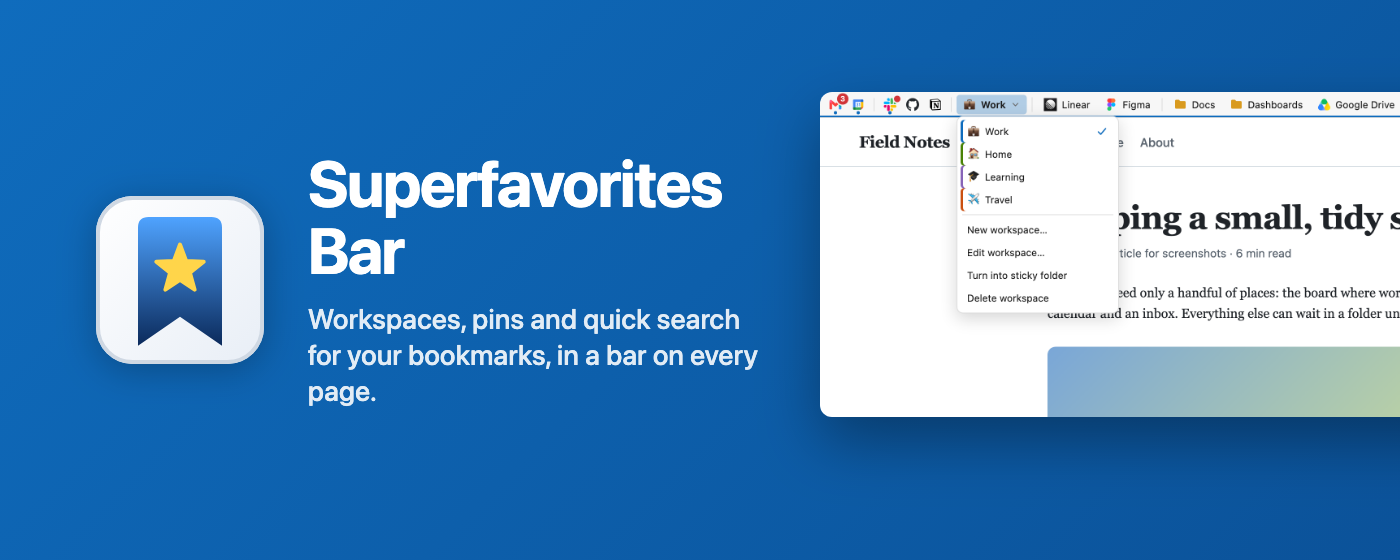
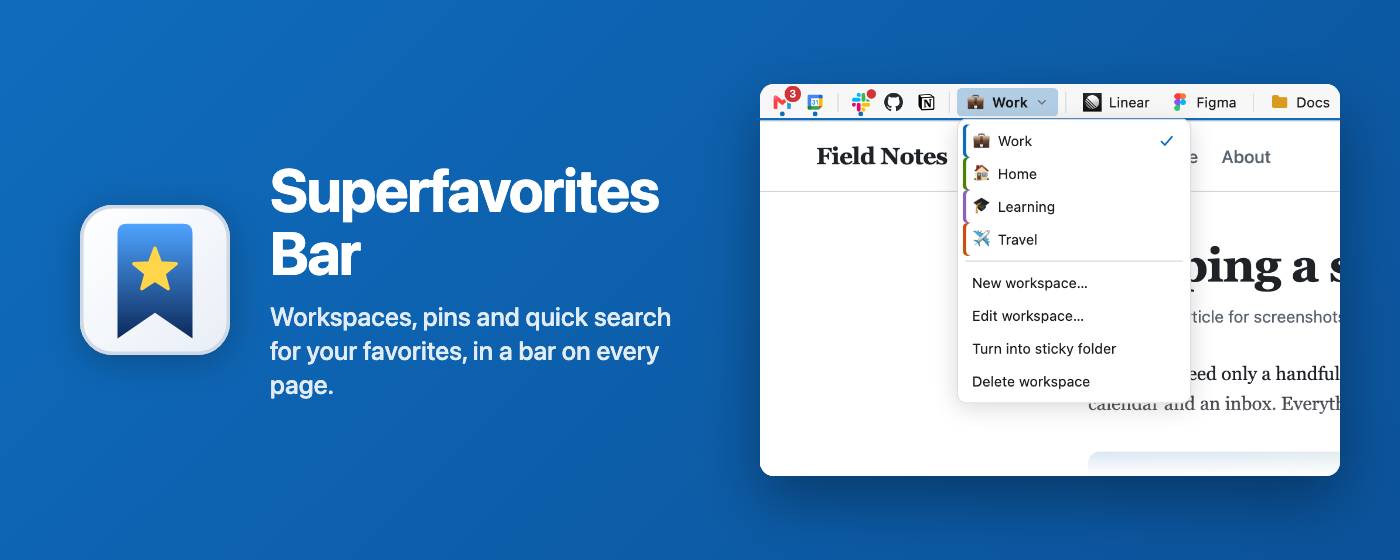
Polish Edge store listing text and promo tiles
Expand the store description, single purpose and bookmarks permission
justification, say "favorites" on the promo tiles and keep the large
tile's screenshot inside the frame.

Changed region(s): [[0.0307, 0.1518, 1.0, 0.9107]]

diff --git a/docs/store/src/promo.html b/docs/store/src/promo.html
@@ -14,12 +14,16 @@
   .small .icon { width: 104px; height: 104px; }
   .small h1 { font-size: 36px; }
   .small p { font-size: 17px; margin-top: 10px; }
-  .large { width: 1400px; height: 560px; padding-left: 96px; gap: 44px; }
-  .large .icon { width: 168px; height: 168px; }
-  .large h1 { font-size: 64px; }
-  .large p { font-size: 28px; margin-top: 16px; max-width: 470px; }
-  .large .shot { position: absolute; left: 820px; top: 92px; width: 1040px; border-radius: 12px;
-                 box-shadow: 0 24px 60px rgba(0,0,0,.35); }
+  .large { width: 1400px; height: 560px; padding-left: 80px; gap: 40px; }
+  .large .icon { width: 150px; height: 150px; }
+  .large h1 { font-size: 60px; }
+  .large p { font-size: 26px; margin-top: 16px; max-width: 420px; }
+  /* A window-sized crop of the bar and its workspace menu, kept inside the tile. */
+  .large .frame { position: absolute; right: 60px; top: 84px; width: 580px; height: 392px; overflow: hidden;
+                  border-radius: 14px; background: #fff; box-shadow: 0 24px 60px rgba(0,0,0,.35); }
+  .large .shot { display: block; width: 1500px; }
+  .large .frame::after { content: ''; position: absolute; inset: auto 0 0 0; height: 90px;
+                         background: linear-gradient(transparent, #fff); }
   .logo { width: 300px; height: 300px; justify-content: center; background: #fff; }
   .logo .icon { width: 236px; height: 236px; filter: none; }
 </style></head><body>
@@ -28,10 +32,10 @@
   fetch('../../../icons/src/icon.svg').then((r) => r.text()).then((svg) => {
     const icon = `<div class="icon">${svg.replace('<svg ', '<svg width="100%" height="100%" ')}</div>`;
     const text = `<div><h1>Superfavorites<br>Bar</h1><p>${size === 'large'
-      ? 'Workspaces, pins and quick search for your bookmarks, in a bar on every page.'
-      : 'Workspaces for your bookmarks'}</p></div>`;
+      ? 'Workspaces, pins and quick search for your favorites, in a bar on every page.'
+      : 'Workspaces for your favorites'}</p></div>`;
     document.body.innerHTML = size === 'logo' ? `<div class="tile logo">${icon}</div>`
-      : `<div class="tile ${size}">${icon}${text}${size === 'large' ? '<img class="shot" src="../../screenshots/workspaces.png">' : ''}</div>`;
+      : `<div class="tile ${size}">${icon}${text}${size === 'large' ? '<div class="frame"><img class="shot" src="../../screenshots/workspaces.png"></div>' : ''}</div>`;
     document.title = 'ready';
   });
 </script>

diff --git a/docs/store/LISTING.md b/docs/store/LISTING.md
@@ -7,29 +7,38 @@ Ready-to-paste text for the Edge Add-ons (Partner Center) and Chrome Web Store f
 Paste into **Description** (Edge: 250–10,000 characters).
 
 ```
-Superfavorites Bar adds a second bookmarks bar to the top (or bottom) of every page, organized into workspaces: separate sets of favorites for work, home, a project or a trip, and you switch between them with one click or a keystroke.
+Superfavorites Bar adds a second bookmarks bar to your browser, organized into workspaces. Keep separate sets of favorites for work, home, a project or a trip, and switch between them with one click or a keystroke, without the clutter of one long favorites bar.
 
-WORKSPACES
-• Each workspace is a folder of your favorites, with its own emoji or website icon and color.
-• Switch from the selector at the left of the bar, or press Alt+A for a quick switcher.
-• Type in the switcher to search every favorite and jump straight to it.
+HOW IT WORKS
+The bar sits at the top or bottom of every web page and shows the favorites in a folder you choose. Each subfolder becomes a workspace, with its own emoji or website icon and its own color. Because everything is stored as ordinary favorites, your workspaces sync to your other devices through the browser's own sync. There's no account to create.
+
+WORKSPACES AND SEARCH
+• Switch workspaces from the selector at the left of the bar.
+• Press Alt+A to open the quick switcher, then type to search every favorite and jump straight to it.
+• Create, edit and reorder workspaces right from the workspace menu.
 
 ALWAYS AT HAND
-• Pinned favorites: icon-only shortcuts shown in every workspace, with a dot when their tab is open and a badge with the unread count (e.g. your inbox).
-• Sticky folders: drop-downs that stay on the bar in every workspace.
-• Your browser's Other favorites, one click away at the right of the bar.
-• Folders open as menus and submenus; drag and drop to rearrange; separators to group things.
+• Pinned favorites: icon-only shortcuts that appear in every workspace. A dot shows when the site is open in a tab, and a badge shows its unread count, such as your inbox.
+• Sticky folders: drop-down menus that stay on the bar in every workspace.
+• Other favorites, one click away at the right of the bar.
+• Folders open as menus and submenus. Drag and drop to rearrange, and add separators to group things.
+• Pinned favorites and search results switch to the site's tab if it's already open, instead of opening a duplicate.
 
 TIDY TABS
-Close the tabs you've already saved as favorites in one go, and add the ones worth keeping to your workspace or one of its folders.
+Press Alt+Shift+K, or use the bar's menu, to review the tabs in the window. Close the ones you've already saved as favorites in one go, and add the ones worth keeping to your workspace or one of its folders.
 
 MAKE IT YOURS
 • Seven icon themes, inspired by Edge, Safari, Firefox, Chrome, Windows 98 and more.
-• Typography settings: any installed font, size, weight, condensed widths, letter spacing and case.
+• Typography: any installed font, plus size, weight, condensed widths, letter spacing and case.
+• Show the bar at the top or bottom, with or without titles, and choose whether it pushes the page down.
 • Optionally keep pinned-favorite tabs folded away in a single ★ tab group.
+• Press Alt+Shift+Y to show or hide the bar.
 
-SYNCS WITH YOUR FAVORITES
-Everything lives in an ordinary favorites folder, so your workspaces sync to your other devices with the browser's own sync. No account, no servers, no tracking.
+PRIVATE BY DESIGN
+Superfavorites Bar collects no data. It has no servers, no analytics and no tracking, and your favorites and tabs never leave your device except through your browser's own sync.
+
+GETTING STARTED
+After installing, the bar appears on web pages. Browsers don't allow extensions on their own pages, such as settings and the New Tab page. The extension creates a "Superfavorites" folder under Other favorites. Add favorites to it, or click + on the bar, and open Settings from the toolbar icon to choose another folder.
 
 Open source: https://github.com/pantulis/superfavorites-bar
 ```
@@ -54,15 +63,21 @@ Productivity
 
 ## Single purpose
 
+Edge: at most 1,000 characters.
+
 ```
-Shows a second bookmarks bar on web pages that organizes the user's favorites into switchable workspaces.
+Superfavorites Bar has a single purpose: to give the user a second bookmarks bar, organized into workspaces, so they can reach their own favorites quickly.
+
+The bar is drawn at the top or bottom of web pages and shows the favorites in a folder the user chooses. Each subfolder is a workspace (for example Work, Home or Travel), and the user switches between them from the bar or with a keyboard shortcut. Every feature serves that bar: pinned and sticky favorites that stay visible in every workspace, folder menus, a search across favorites, a Tidy tabs dialog that closes tabs already saved as favorites and saves the rest, and settings for how the bar looks (position, icon theme, typography).
+
+Everything is stored in the user's own favorites and on their device. There is no account, no server and no tracking.
 ```
 
 ## Permission justifications
 
 | Permission | Justification |
 |---|---|
-| `bookmarks` | The bar shows, adds, moves and edits the user's favorites. Workspaces, pins, sticky folders, colors and separators are stored as favorites so they sync. |
+| `bookmarks` | The bar is built from the user's favorites, so the extension reads the favorites folder the user chooses and shows its contents on the bar. It also changes favorites when the user asks it to: adding the current page, renaming, moving between workspaces and folders, deleting, and saving tabs from Tidy tabs. Workspaces, pinned favorites, sticky folders, colors and separators are stored as ordinary favorites, so they sync across the user's devices with the browser's own sync. On first run it creates one folder, "Superfavorites", under Other favorites. Favorites outside that folder are only read to show Other favorites on the bar and are never changed unless the user moves an item there. |
 | `storage` | Keeps display settings (icon theme, typography) on the device and caches the favorites tree so the bar draws quickly. |
 | `favicon` | Shows each favorite's site icon from the browser's own icon cache. |
 | `scripting` | Adds the bar to tabs that were already open when the extension is installed or updated. |
